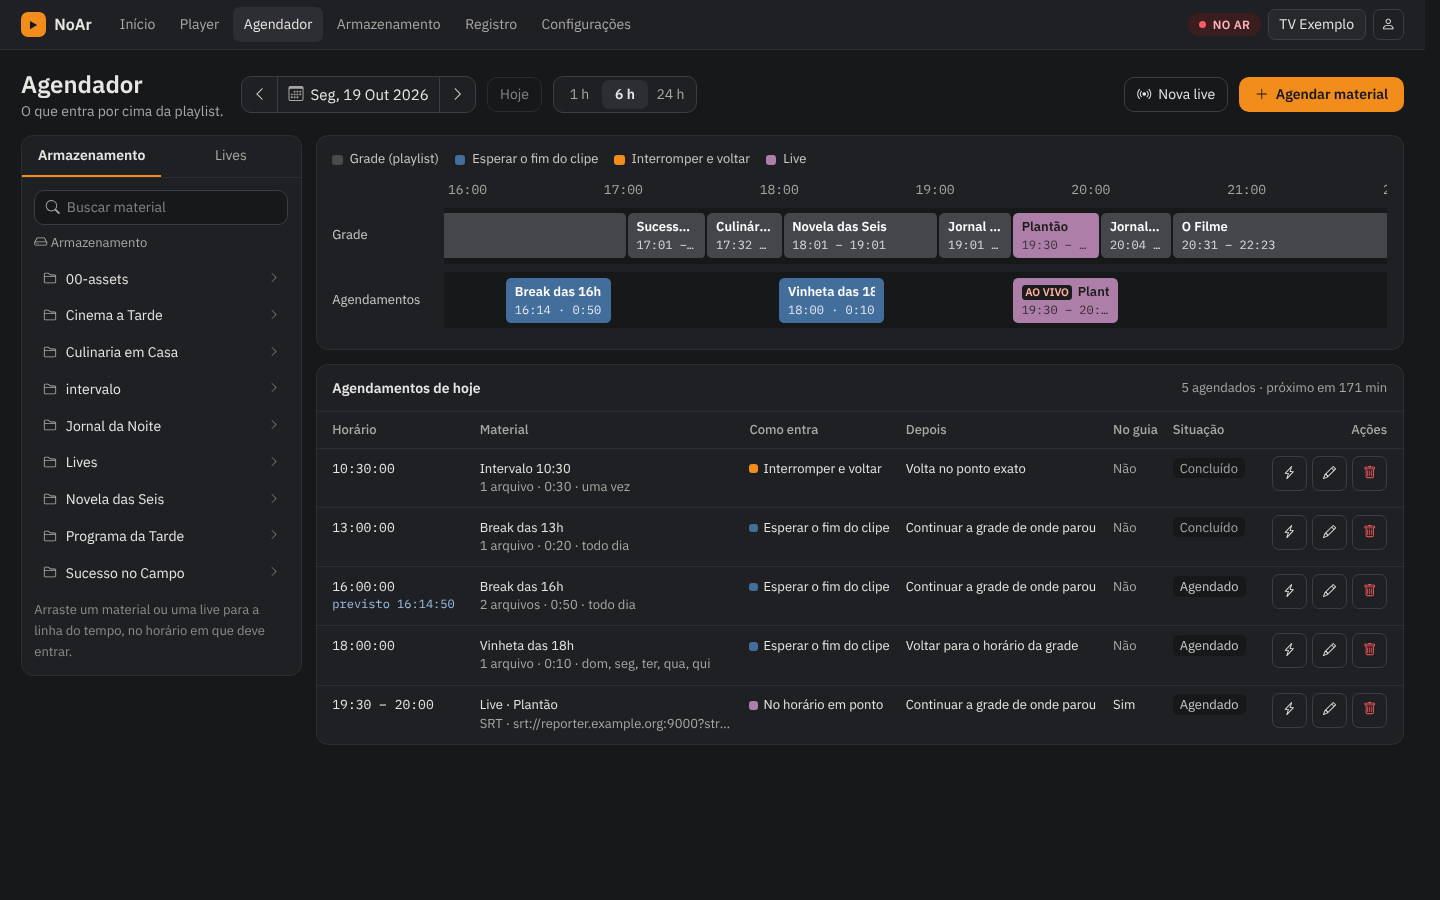
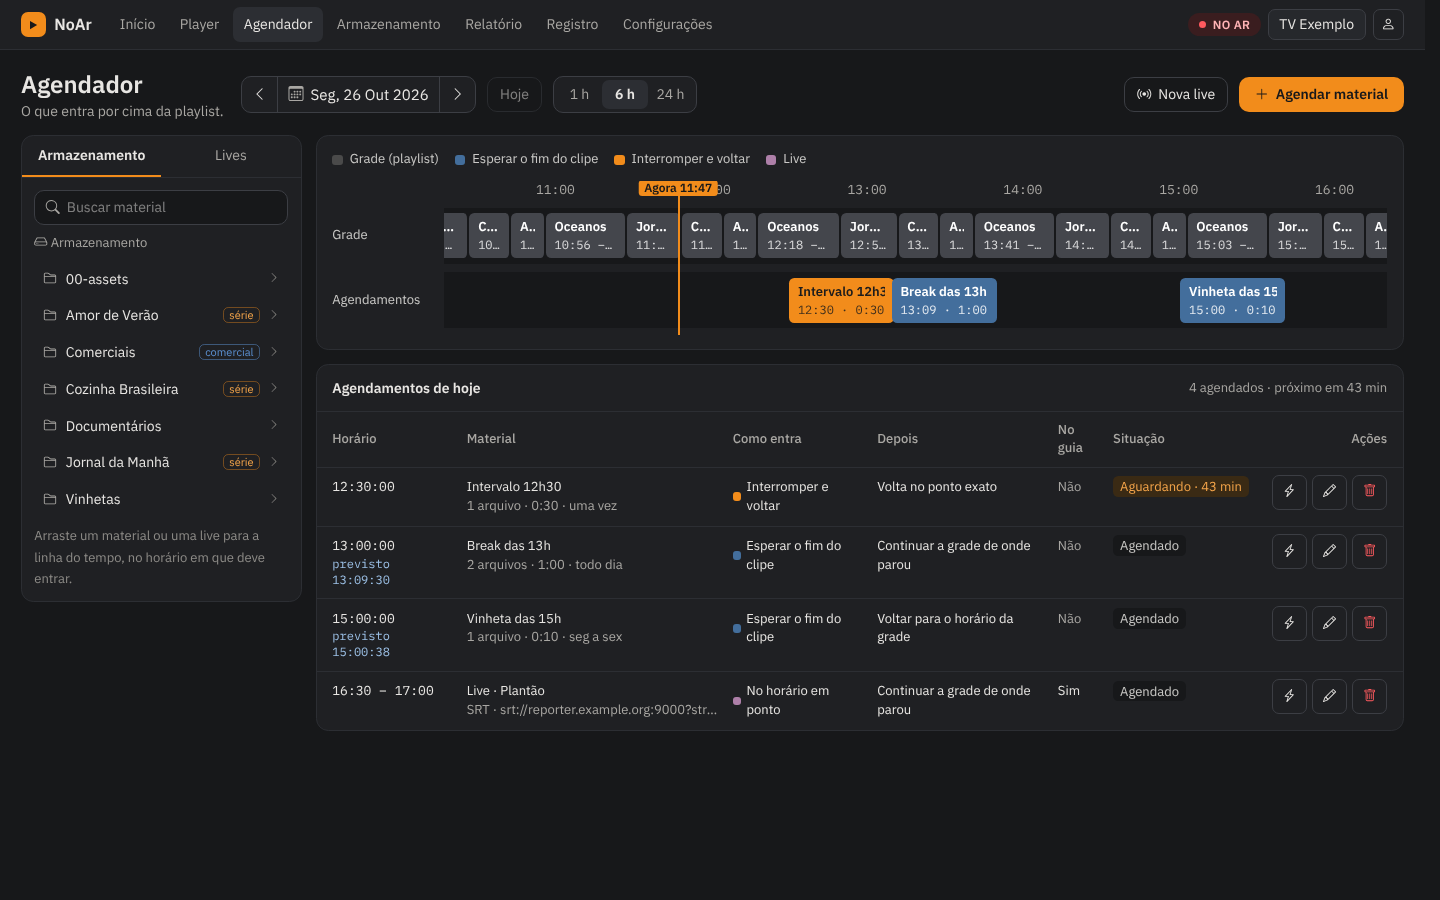
Fix overlapping preview text and doubled Storage names; new screenshots
The "no preview" placeholder showed on top of a playing picture, and
Storage listed every video and image name twice: both v-else branches had
attached to the wrong element. The README gets new screenshots, the logo
animations, the image tags, and pointers to password recovery and the SRT
listener preview note.

Claude-Session: https://claude.ai/code/session_01PPQm4oLktuepej8dFcYFzp

diff --git a/frontend/src/views/MediaView.vue b/frontend/src/views/MediaView.vue
@@ -1365,7 +1365,7 @@ const uploadAccept = computed(() =>
                                                 {{ t('storage.logoMarks.badge') }}
                                             </button>
                                             <span
-                                                v-else
+                                                v-if="!isImage(row.name) && !isVideo(row.file)"
                                                 class="truncate"
                                                 :class="row.file?.media === false ? 'text-muted' : ''"
                                             >

diff --git a/frontend/src/components/player/LivePreview.vue b/frontend/src/components/player/LivePreview.vue
@@ -235,7 +235,7 @@ const xmltvUrl = computed(() => (channel.value ? `/xmltv/${channel.value.id}/gui
                 <span class="max-w-[46ch]">{{ previewNotice }}</span>
             </div>
             <div
-                v-else
+                v-if="!previewUrl"
                 class="absolute inset-0 flex flex-col items-center justify-center gap-2 text-[#8e8c88] text-sm p-6 text-center"
             >
                 <i class="bi bi-camera-video-off text-2xl" aria-hidden="true" />

diff --git a/README.md b/README.md
@@ -27,9 +27,10 @@ them it adds:
   commercial in playlists and scheduled breaks: out of the guide and without
   the logo ([docs](docs/commercials.md)).
 - **Logo control**: stretches without logo inside a video, for breaks edited
-  into a programme. The logo can also be hidden or swapped on air by API, for
-  example from the encoder of a live, with a tutorial in the settings
-  ([docs](docs/logo.md)).
+  into a programme. The logo comes up and goes off with a fade or a cut, of a
+  length you choose, and cross-fades when swapped for another image. It can
+  also be hidden or swapped on air by API, for example from the encoder of a
+  live, with a tutorial in the settings ([docs](docs/logo.md)).
 - **Ad breaks (SCTE-35)**: runs of commercials, and breaks marked by hand,
   are marked in the SRT or UDP output for FAST platforms and ad servers to
   replace, frame-accurately and announced ahead, with the next break and the
@@ -56,8 +57,8 @@ Portuguese one.
 
 ## Screens
 
-**Scheduler**: a break that waits for the clip on air and a live show at
-19:30; the programme moves to make room for them.
+**Scheduler**: a break that cuts in at 12:30, one that waits for the clip on
+air, and a live show at 16:30; the programme moves to make room for them.
 
 ![Scheduler](docs/images/scheduler.png)
 
@@ -71,12 +72,13 @@ the videos you pick.
 
 ![Adding a program folder](docs/images/program-folder.png)
 
-**Report**: one commercial on one day, each time it aired, after which
-programme, and the times still planned.
+**Report**: the day so far with the actual times, and what is still to come
+from the playlist and the Scheduler, with totals for commercials and lives.
 
 ![Report](docs/images/report.png)
 
-**Settings**: live ingest receivers and the playout restart.
+**Settings**: the logo, where and how large it goes on air, and how it
+comes up and goes off.
 
 ![Settings](docs/images/settings.png)
 
@@ -115,12 +117,32 @@ Update from **Settings › Updates** (with the `noar-updater` service on, see
 docker compose pull && docker compose up -d
 ```
 
+Forgot the admin password? Set a new one from the server with
+`docker exec -it noar noar --user-set`; see
+[docs/docker.md](docs/docker.md#forgotten-admin-password).
+
+If the Player preview stays black with an SRT output in listener mode
+(`?mode=listener`), that output sends nothing, to the receiver or to the
+preview, until a receiver connects; the Player says so. See
+[docs/output.md](docs/output.md#player-preview).
+
 ## Versions
 
 NoAr follows [Semantic Versioning](https://semver.org); every release is
-listed in [CHANGELOG.md](CHANGELOG.md). The `latest` image follows `main`; to
-stay on a release, pin its tag in `docker-compose.yml`, for example
-`ghcr.io/luizstsantos/noar:1.0`. See [docs/releasing.md](docs/releasing.md).
+listed in [CHANGELOG.md](CHANGELOG.md). The images on
+`ghcr.io/luizstsantos/noar` are tagged:
+
+| Tag | What it is |
+| --- | --- |
+| `latest` | The newest stable release |
+| `1.1`, `1.1.1` | A release line (gets its fixes) or one exact release |
+| `main` | The development build, not for air |
+| `sha-…` | One commit, for tests |
+
+To stay on a release line, pin it in `docker-compose.yml`, for example
+`ghcr.io/luizstsantos/noar:1.1`. Releases are prepared and published by the
+**Prepare release** and **Tag release** workflows; see
+[docs/releasing.md](docs/releasing.md).
 
 ## Features from ffplayout
 

diff --git a/CHANGELOG.md b/CHANGELOG.md
@@ -19,11 +19,14 @@ one is tagged.
 - The Player preview no longer stays black without a word: it says when it
   is waiting for the first pictures (for an SRT output in listener mode, until
   a receiver connects) and, when it cannot play, why.
+- Storage showed the name of every video and image twice unless the video
+  had stretches without logo.
 
 ### Documentation
 
 - How to get back into NoAr after forgetting the admin password
   ([docs](docs/docker.md#forgotten-admin-password)).
+- New screenshots in the README, and the image tags explained there.
 
 ## [1.1.0] - 2026-10-26
 
